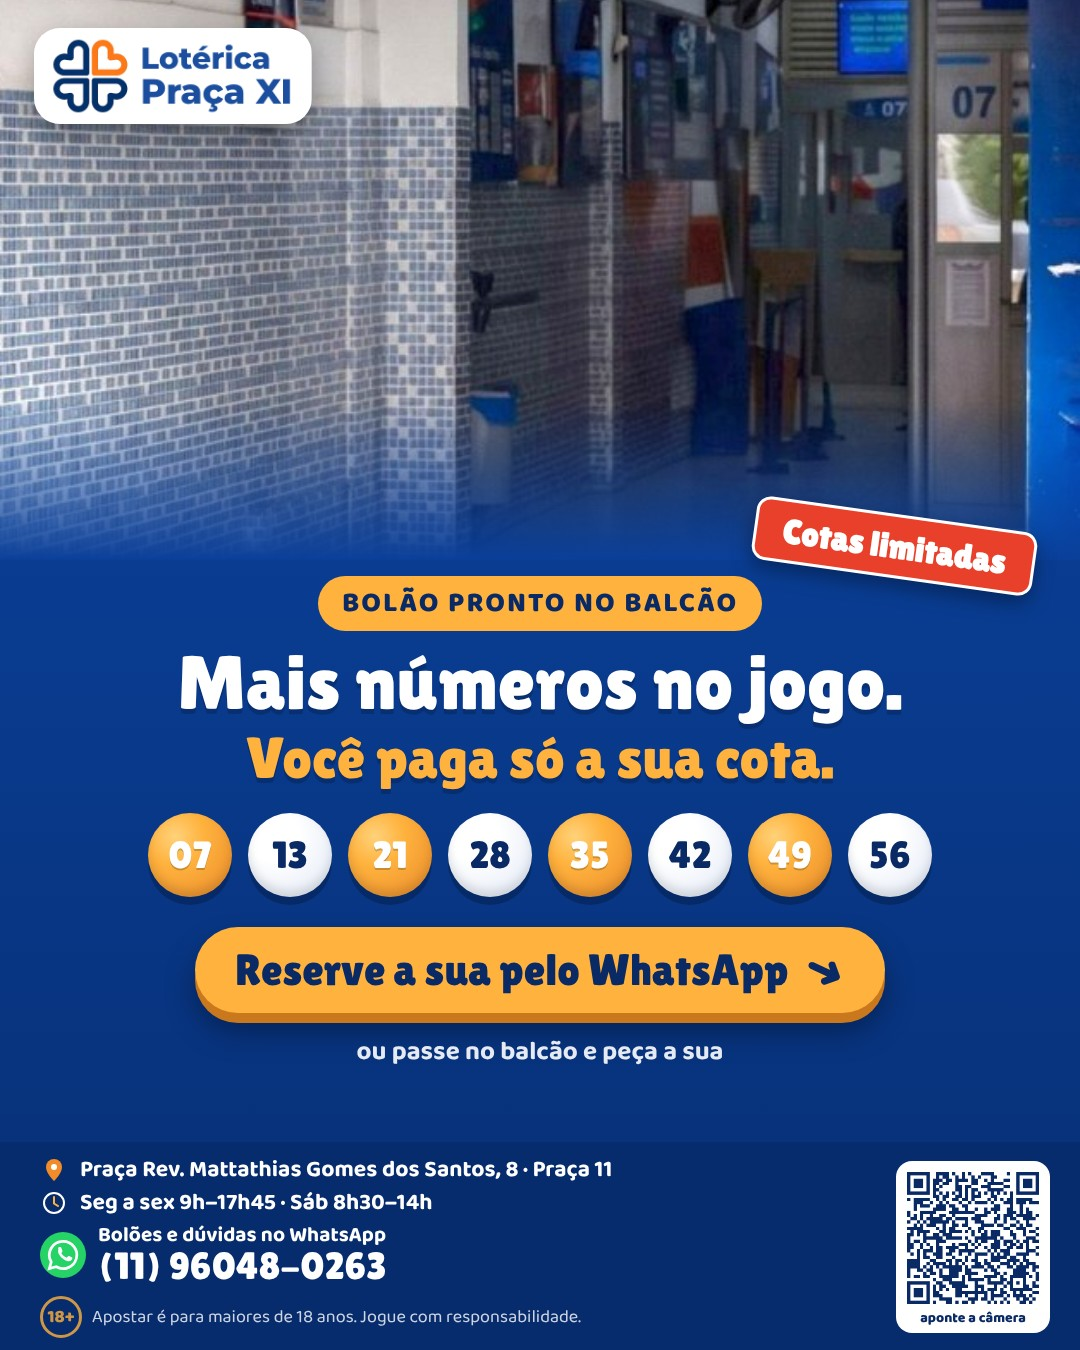
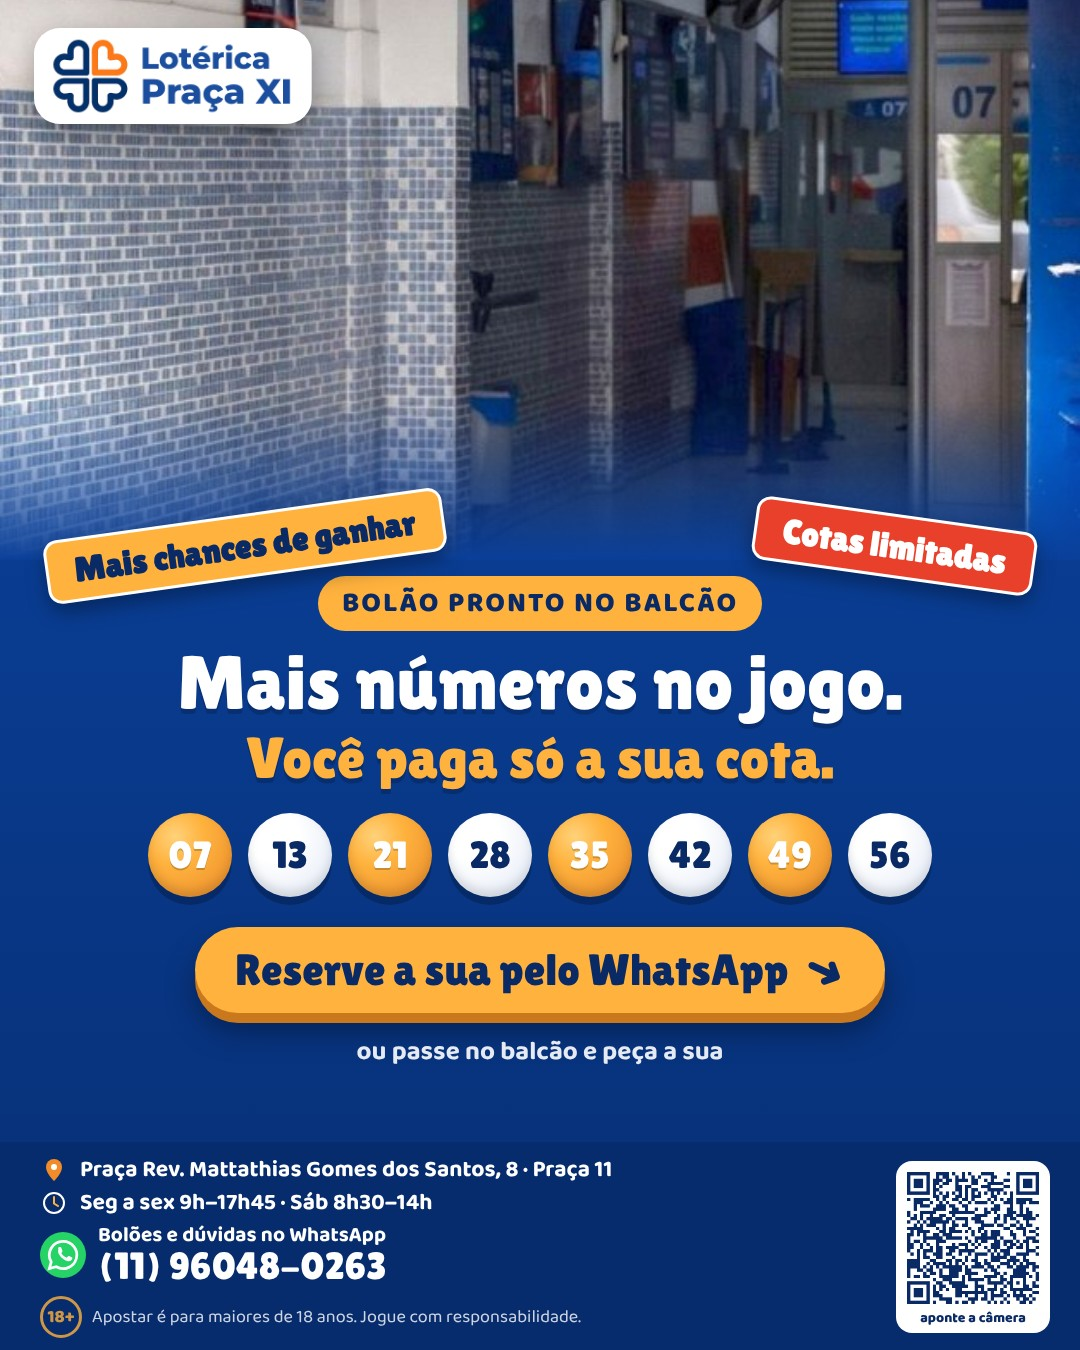
Peça de bolões: selo "Mais chances de ganhar"
Claude-Session: https://claude.ai/code/session_01Bxe7GpT3JXbyMSz1b7a84R

Changed region(s): [[0.0306, 0.3422, 0.4278, 0.4667]]

diff --git a/pecas-card/bolao_tomazini.html b/pecas-card/bolao_tomazini.html
@@ -44,10 +44,10 @@ body{padding:0;align-items:stretch;width:1080px;height:1350px}
 .btn{margin-top:30px;background:#FFB23E;color:#0A2A66;font-family:L;font-size:44px;padding:16px 40px;border-radius:60px;box-shadow:0 10px 0 #C9781E,0 18px 30px rgba(0,0,0,.35);display:flex;align-items:center;gap:18px}
 .btn b{font-size:46px;transform:rotate(25deg);display:inline-block}
 .ou{margin-top:18px;font-weight:700;font-size:26px;opacity:.9}
-</style></head><body>
+.mk .tag.tl{right:auto;left:44px;transform:rotate(-8deg);background:#FFB23E;color:#0A2A66}</style></head><body>
 <div class="ph" style="--ph:560px;background-image:url(__A__/foto_tomazini.jpg);background-position:60% 76%;background-size:112%"><img class="lj" style="right:34px" src="__A__/logoloja_tomazini.png"></div>
 <div class="mid mk">
-<div class="tag">Cotas limitadas</div>
+<div class="tag tl">Mais chances de ganhar</div><div class="tag">Cotas limitadas</div>
 <div class="kick">BOLÃO PRONTO NO BALCÃO</div>
 <div class="h">Mais números no jogo.<br><span>Você paga só a sua cota.</span></div>
 <div class="bolas"><i class="o">07</i><i class="">13</i><i class="o">21</i><i class="">28</i><i class="o">35</i><i class="">42</i><i class="o">49</i><i class="">56</i></div>

diff --git a/pecas-card/bolao_praca-xi.html b/pecas-card/bolao_praca-xi.html
@@ -44,10 +44,10 @@ body{padding:0;align-items:stretch;width:1080px;height:1350px}
 .btn{margin-top:30px;background:#FFB23E;color:#0A2A66;font-family:L;font-size:44px;padding:16px 40px;border-radius:60px;box-shadow:0 10px 0 #C9781E,0 18px 30px rgba(0,0,0,.35);display:flex;align-items:center;gap:18px}
 .btn b{font-size:46px;transform:rotate(25deg);display:inline-block}
 .ou{margin-top:18px;font-weight:700;font-size:26px;opacity:.9}
-</style></head><body>
+.mk .tag.tl{right:auto;left:44px;transform:rotate(-8deg);background:#FFB23E;color:#0A2A66}</style></head><body>
 <div class="ph" style="--ph:560px;background-image:url(__A__/foto_praca-xi.jpg);background-position:70% 52%;background-size:118%"><img class="lj" style="left:34px" src="__A__/logoloja_praca-xi.png"></div>
 <div class="mid mk">
-<div class="tag">Cotas limitadas</div>
+<div class="tag tl">Mais chances de ganhar</div><div class="tag">Cotas limitadas</div>
 <div class="kick">BOLÃO PRONTO NO BALCÃO</div>
 <div class="h">Mais números no jogo.<br><span>Você paga só a sua cota.</span></div>
 <div class="bolas"><i class="o">07</i><i class="">13</i><i class="o">21</i><i class="">28</i><i class="o">35</i><i class="">42</i><i class="o">49</i><i class="">56</i></div>

diff --git a/pecas-card/bolao_we.html b/pecas-card/bolao_we.html
@@ -44,10 +44,10 @@ body{padding:0;align-items:stretch;width:1080px;height:1350px}
 .btn{margin-top:30px;background:#FFB23E;color:#0A2A66;font-family:L;font-size:44px;padding:16px 40px;border-radius:60px;box-shadow:0 10px 0 #C9781E,0 18px 30px rgba(0,0,0,.35);display:flex;align-items:center;gap:18px}
 .btn b{font-size:46px;transform:rotate(25deg);display:inline-block}
 .ou{margin-top:18px;font-weight:700;font-size:26px;opacity:.9}
-</style></head><body>
+.mk .tag.tl{right:auto;left:44px;transform:rotate(-8deg);background:#FFB23E;color:#0A2A66}</style></head><body>
 <div class="ph" style="--ph:560px;background-image:url(__A__/foto_we.jpg);background-position:35% 45%;background-size:cover"><img class="lj" style="right:34px" src="__A__/logoloja_we.png"></div>
 <div class="mid mk">
-<div class="tag">Cotas limitadas</div>
+<div class="tag tl">Mais chances de ganhar</div><div class="tag">Cotas limitadas</div>
 <div class="kick">BOLÃO PRONTO NO BALCÃO</div>
 <div class="h">Mais números no jogo.<br><span>Você paga só a sua cota.</span></div>
 <div class="bolas"><i class="o">07</i><i class="">13</i><i class="o">21</i><i class="">28</i><i class="o">35</i><i class="">42</i><i class="o">49</i><i class="">56</i></div>
